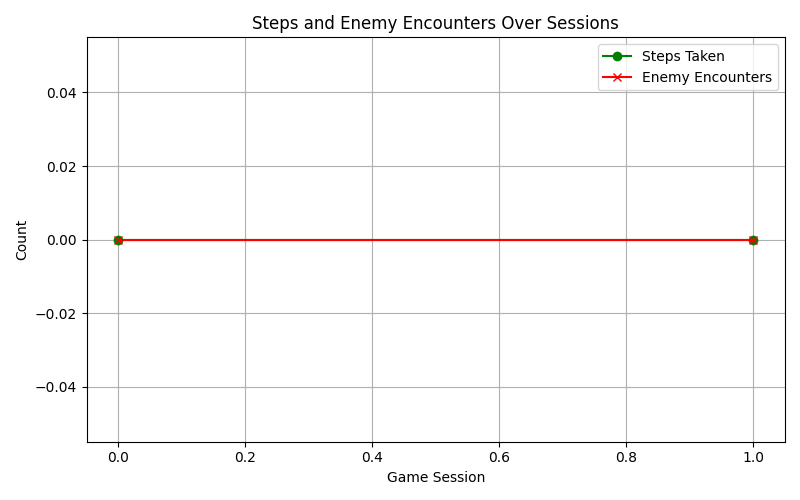
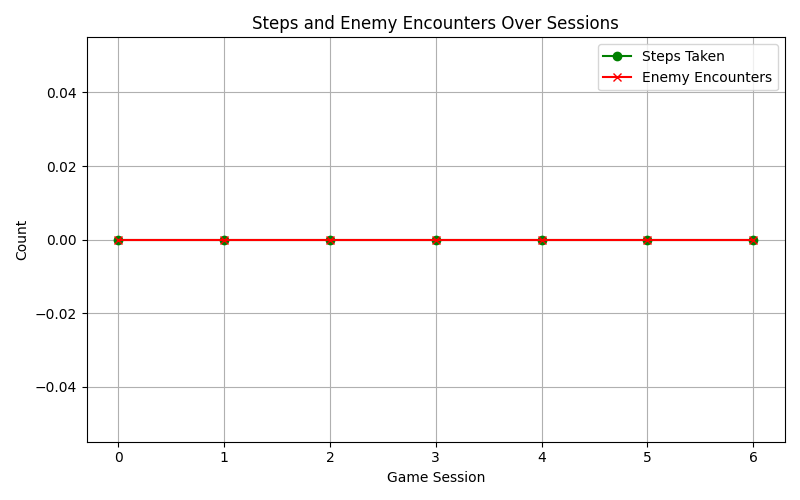
Game Stat button is not working

diff --git a/visualize_game_data.py b/visualize_game_data.py
@@ -1,39 +1,53 @@
-import pandas as pd
-import matplotlib.pyplot as plt
+from PIL import ImageFont, ImageDraw, Image
 
-# Load the data
-df = pd.read_csv("game_results_stat.csv")
 
-# --- 1. Table comparison: Time Taken (min, max) ---
-min_time = df["time_taken"].min()
-max_time = df["time_taken"].max()
+def generate_game_stats():
+    import pandas as pd
+    import matplotlib.pyplot as plt
 
-print("=== Time Taken Comparison ===")
-print(f"Minimum Time Taken: {min_time} seconds")
-print(f"Maximum Time Taken: {max_time} seconds")
-print()
+    df = pd.read_csv("game_results_stat.csv")
 
-# --- 2. Bar Chart: Average Keys Collected and Wall Collisions ---
-avg_keys = df["keys_collected"].mean()
-avg_collisions = df["wall_collisions"].mean()
 
-plt.figure(figsize=(6, 4))
-plt.bar(["Keys Collected", "Wall Collisions"], [avg_keys, avg_collisions], color=["skyblue", "salmon"])
-plt.title("Average Keys Collected & Wall Collisions")
-plt.ylabel("Average Count")
-plt.tight_layout()
-plt.savefig("bar_chart_avg_keys_collisions.png")
-plt.show()
+    # --- Time Taken (min/max) ---
+    min_time = df["time_taken"].min()
+    max_time = df["time_taken"].max()
 
-# --- 3. Line Chart: Steps Taken & Enemy Encounters Over Time ---
-plt.figure(figsize=(8, 5))
-plt.plot(df["steps_taken"], label="Steps Taken", marker="o", color="green")
-plt.plot(df["enemy_encounters"], label="Enemy Encounters", marker="x", color="red")
-plt.title("Steps and Enemy Encounters Over Sessions")
-plt.xlabel("Game Session")
-plt.ylabel("Count")
-plt.legend()
-plt.grid(True)
-plt.tight_layout()
-plt.savefig("line_chart_steps_enemy.png")
-plt.show()
+    # Create an image with this info using PIL
+    img = Image.new("RGB", (500, 100), color="white")
+    draw = ImageDraw.Draw(img)
+
+    # Optional: Load a font
+    try:
+        font = ImageFont.truetype("arial.ttf", 20)
+    except:
+        font = ImageFont.load_default()
+
+    draw.text((10, 10), "=== Time Taken Comparison ===", fill="black", font=font)
+    draw.text((10, 40), f"Minimum Time Taken: {min_time} seconds", fill="black", font=font)
+    draw.text((10, 65), f"Maximum Time Taken: {max_time} seconds", fill="black", font=font)
+
+    img.save("time_taken_stat.png")
+
+    # Bar chart
+    avg_keys = df["keys_collected"].mean()
+    avg_collisions = df["wall_collisions"].mean()
+    plt.figure(figsize=(6, 4))
+    plt.bar(["Keys Collected", "Wall Collisions"], [avg_keys, avg_collisions], color=["skyblue", "salmon"])
+    plt.title("Average Keys Collected & Wall Collisions")
+    plt.ylabel("Average Count")
+    plt.tight_layout()
+    plt.savefig("bar_chart_avg_keys_collisions.png")
+    plt.close()
+
+    # Line chart
+    plt.figure(figsize=(8, 5))
+    plt.plot(df["steps_taken"], label="Steps Taken", marker="o", color="green")
+    plt.plot(df["enemy_encounters"], label="Enemy Encounters", marker="x", color="red")
+    plt.title("Steps and Enemy Encounters Over Sessions")
+    plt.xlabel("Game Session")
+    plt.ylabel("Count")
+    plt.legend()
+    plt.grid(True)
+    plt.tight_layout()
+    plt.savefig("line_chart_steps_enemy.png")
+    plt.close()

diff --git a/main.py b/main.py
@@ -9,6 +9,7 @@ from player import Player
 from Leaderboard import Leaderboard
 from constant import *
 from GameManager import GameManager
+from visualize_game_data import generate_game_stats
 
 # Initialize Pygame
 pygame.init()
@@ -33,9 +34,20 @@ show_leaderboard = False
 gm = GameManager()
 game_state = "menu"
 
+# Show game stat
+def load_stat_images():
+    time_img = pygame.image.load("time_taken_stat.png")
+    bar_chart = pygame.image.load("bar_chart_avg_keys_collisions.png")
+    line_chart = pygame.image.load("line_chart_steps_enemy.png")
+    return bar_chart, line_chart, time_img
+
+
+show_stats = False
+stat_images = []
+
 def show_menu():
     """ Display the main menu and wait for user selection. """
-    global player_name, active, show_leaderboard, game_state
+    global player_name, active, show_leaderboard, game_state, show_stats, stat_images
 
     running = True
     while running:
@@ -76,7 +88,13 @@ def show_menu():
         # Draw buttons
         start_button.draw(screen)
         rank_button.draw(screen)
-        data.draw(screen)
+        data_button.draw(screen)
+
+        # display game stats if triggered
+        if show_stats:
+            screen.blit(stat_images[0], (50, 100))  # time taken image
+            screen.blit(stat_images[1], (50, 220))  # bar chart
+            screen.blit(stat_images[2], (50, 480))  # line chart
 
         if game_state == "leaderboard":
             screen.fill((0, 0, 0))  # clear screen
@@ -110,6 +128,11 @@ def show_menu():
                     game_state = "menu"
                 elif rank_button.rect.collidepoint(event.pos):
                     game_state = "leaderboard"
+                elif data_button.rect.collidepoint(event.pos):
+                    game_state = "Game Stat"
+                    generate_game_stats()
+                    stat_images = load_stat_images()
+                    show_stats = True
 
                 else:
                     active = False
@@ -224,6 +247,9 @@ def run_game():
                             elif choice == "quit":
                                 pygame.quit()
                                 sys.exit()
+
+                            elif choice == "Game Stat":
+                                generate_game_stats()
                     else:
                         game_message = "You have to collect ALL KEYS to escape!"
 
@@ -236,3 +262,6 @@ while True:
         run_game()
     elif choice == "rank":
         leaderboard.get_top_scores()  # Placeholder for ranking screen logic
+    elif choice == "Game Stat":
+        generate_game_stats()
+

diff --git a/constant.py b/constant.py
@@ -29,7 +29,7 @@ font = pygame.font.Font("PixeloidSans-mLxMm.ttf", 20)
 # Create Buttons for the menu
 start_button = Button("START", SCREEN_WIDTH // 2 - 100, 300, 200, 60, BLUE, DARK_BLUE)
 rank_button = Button("RANK", SCREEN_WIDTH // 2 - 100, 400, 200, 60, BLUE, DARK_BLUE)
-data = Button("GAME STAT", SCREEN_WIDTH // 2 - 100, 500, 200, 60, BLUE, DARK_BLUE )
+data_button = Button("GAME STAT", SCREEN_WIDTH // 2 - 100, 500, 200, 60, BLUE, DARK_BLUE )
 
 # For LeaderBoard
 back_button = Button("BACK", SCREEN_WIDTH // 2 - 100, 500, 200, 60, BLUE, DARK_BLUE )
